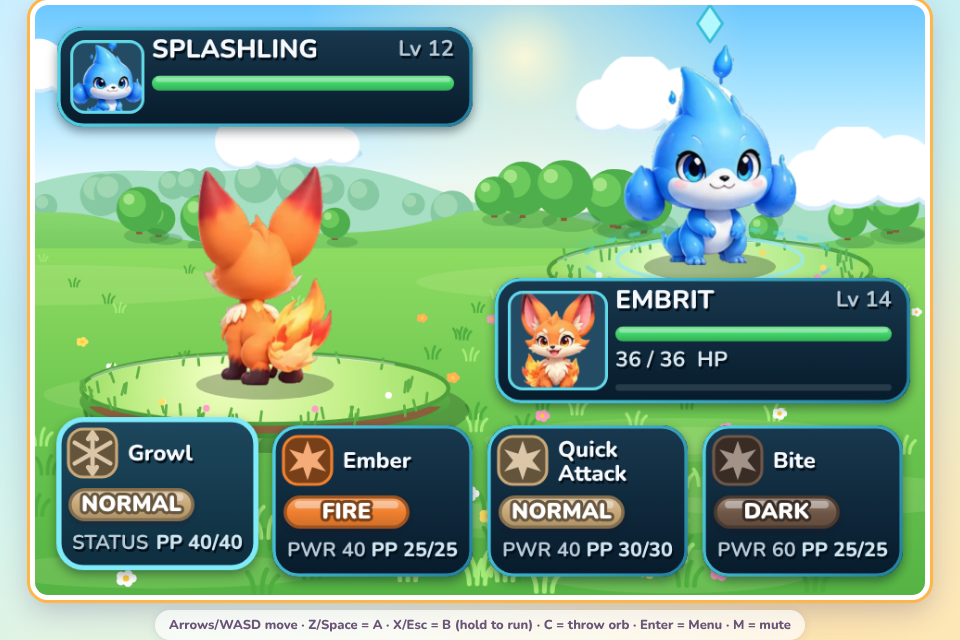
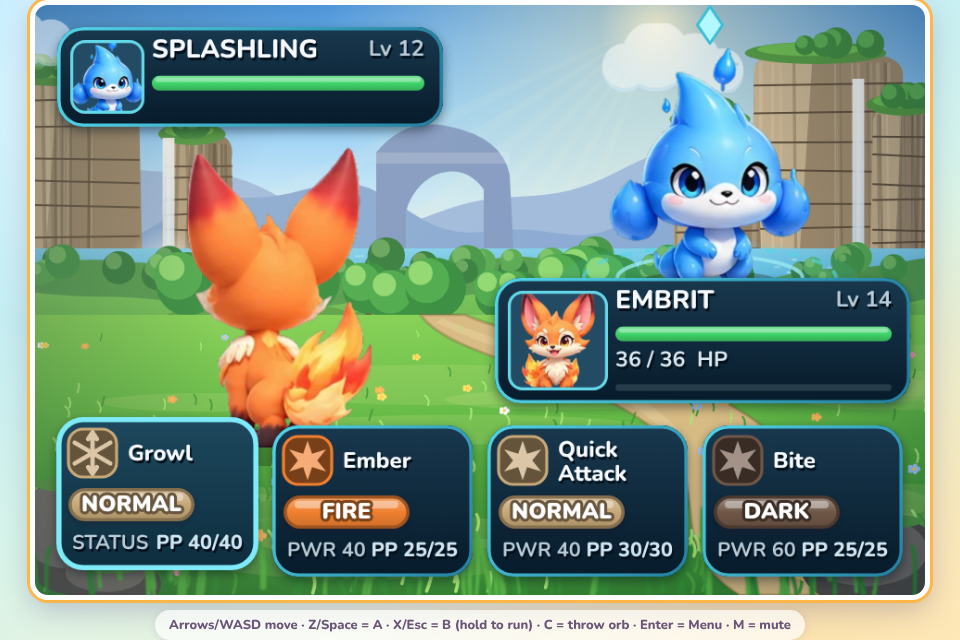
Cinematic battle arena: painted-in-code landscape, larger creatures, no cartoon platforms (v3.27.0)
Claude-Session: https://claude.ai/code/session_016QFoW42RyRroEVoWSSq6Ek

diff --git a/js/battle.js b/js/battle.js
@@ -16,7 +16,7 @@ const msg = (t, auto) => G.say(t, { auto: auto === undefined ? 36 : auto, style:
 const mark = (id, k) => { G.state.dex[id] = Math.max(G.state.dex[id] || 0, k); }; // 1 seen, 2 caught
 const expRatio = c => (c.exp - G.expFor(c.lvl)) / (G.expFor(c.lvl + 1) - G.expFor(c.lvl));
 const speed = f => f.c.stats.spe * G.stageMult(f.stages.spe) * (f.c.status === 'par' ? .5 : 1);
-const center = f => f === b.me ? [62, 78] : [182, 46];
+const center = f => f === b.me ? [61, 74] : [182, 42];
 
 // ---- Drawing --------------------------------------------------------------
 // Backdrops, platforms, orb and particles are pre-rendered (G.kit.cache); per frame we blit them and
@@ -26,36 +26,55 @@ function ell(ctx, x, y, rx, ry, col) { ctx.fillStyle = col; ctx.beginPath(); ctx
 function blob(x, cx, cy, r, col) { x.fillStyle = col; x.beginPath(); x.arc(cx, cy, r, 0, 7); x.fill(); }
 const bgArt = {
   grass: () => K.cache('bbg-grass', 240, 160, x => {
-    const R = G.mulberry(7);
-    x.fillStyle = K.lin(x, 0, 0, 0, 70, ['#6cc8ff', '#a8e4ff', '#e6f9ff', '#fff4d6']); x.fillRect(0, 0, 240, 72);
-    const sun = x.createRadialGradient(132, 14, 0, 132, 14, 60); sun.addColorStop(0, 'rgba(255,250,215,.95)'); sun.addColorStop(.25, 'rgba(255,245,200,.45)'); sun.addColorStop(1, 'rgba(255,245,200,0)');
-    x.fillStyle = sun; x.fillRect(0, 0, 240, 80);
-    // far hills
-    x.fillStyle = '#a6dfc3'; x.beginPath(); x.moveTo(0, 62);
-    for (let i = 0; i <= 240; i += 4) x.lineTo(i, 50 - Math.sin(i / 34) * 7 - Math.sin(i / 13 + 1) * 2);
-    x.lineTo(240, 70); x.lineTo(0, 70); x.fill();
-    // far trees on the ridge
-    for (let i = 0; i < 26; i++) { const tx = R() * 240, ty = 52 - Math.sin(tx / 34) * 7 + 3, r = 3 + R() * 3; blob(x, tx, ty, r, '#86c9a2'); blob(x, tx - r * .3, ty - r * .3, r * .55, '#9fd8b3'); }
-    // near hills
-    x.fillStyle = K.lin(x, 0, 52, 0, 72, ['#8fdc74', '#6fc65a']); x.beginPath(); x.moveTo(0, 70);
-    for (let i = 0; i <= 240; i += 4) x.lineTo(i, 60 - Math.sin(i / 22 + 2) * 4 - Math.sin(i / 9) * 1.2);
-    x.lineTo(240, 74); x.lineTo(0, 74); x.fill();
-    for (let i = 0; i < 14; i++) { // round bushy trees
-      const tx = R() * 240, ty = 61 - Math.sin(tx / 22 + 2) * 4, r = 4 + R() * 4;
-      x.fillStyle = 'rgba(40,110,50,.25)'; x.beginPath(); x.ellipse(tx + 2, ty + 1, r, r * .35, 0, 0, 7); x.fill();
-      x.fillStyle = '#8a5a3a'; x.fillRect(tx - .8, ty - r * .5, 1.6, r * .6);
-      blob(x, tx, ty - r, r, '#4fae4c'); blob(x, tx - r * .3, ty - r * 1.25, r * .6, '#6cc95c'); blob(x, tx - r * .45, ty - r * 1.45, r * .25, '#a3e486');
-    }
-    // meadow ground
-    x.fillStyle = K.lin(x, 0, 66, 0, 160, ['#8fdc62', '#6cc650', '#55b444']); x.fillRect(0, 66, 240, 94);
-    for (let i = 0; i < 10; i++) { x.fillStyle = 'rgba(255,255,200,.12)'; x.beginPath(); x.ellipse(R() * 240, 74 + R() * 80, 30 + R() * 30, 3 + R() * 3, 0, 0, 7); x.fill(); }
-    for (let i = 0; i < 140; i++) { // grass tufts
-      const gx = R() * 240, gy = 68 + Math.pow(R(), .8) * 92, s = .6 + (gy - 66) / 60;
-      x.strokeStyle = R() < .5 ? '#4fae3f' : '#a6ec78'; x.lineWidth = .6 * s; x.beginPath();
-      x.moveTo(gx - s, gy); x.quadraticCurveTo(gx - s, gy - s * 1.5, gx - s * 1.8, gy - s * 2.6); x.moveTo(gx, gy); x.quadraticCurveTo(gx, gy - s * 2, gx + s * .6, gy - s * 3); x.moveTo(gx + s, gy); x.quadraticCurveTo(gx + s, gy - s * 1.4, gx + s * 2, gy - s * 2.2); x.stroke();
-    }
-    const FL = ['#ffffff', '#ffe066', '#ff9ec7', '#ffb35c'];
-    for (let i = 0; i < 46; i++) { const fx = R() * 240, fy = 70 + R() * 88, r = .7 + (fy - 66) / 90, c = FL[i % 4]; for (let k = 0; k < 5; k++) blob(x, fx + Math.cos(k * 1.26) * r, fy + Math.sin(k * 1.26) * r * .7, r * .7, c); blob(x, fx, fy, r * .5, '#ffcf3a'); }
+    const R = G.mulberry(21), TAU = Math.PI * 2;
+    const poly = (pts, fill) => { x.beginPath(); pts.forEach(([a, b], i) => i ? x.lineTo(a, b) : x.moveTo(a, b)); x.closePath(); x.fillStyle = fill; x.fill(); };
+    const ridge = (y0, amp, f, ph, fill, bottom) => { x.beginPath(); x.moveTo(0, bottom); for (let i = 0; i <= 240; i += 3) x.lineTo(i, y0 - Math.sin(i / f + ph) * amp - Math.sin(i / (f * .37) + ph * 2) * amp * .3); x.lineTo(240, bottom); x.closePath(); x.fillStyle = fill; x.fill(); };
+    // sky, sun, soft rays
+    x.fillStyle = K.lin(x, 0, 0, 0, 78, ['#3f96ee', '#7cc4ff', '#c4e8ff', '#fff2d2']); x.fillRect(0, 0, 240, 80);
+    const sun = x.createRadialGradient(168, 6, 0, 168, 6, 90); sun.addColorStop(0, 'rgba(255,248,214,.95)'); sun.addColorStop(.18, 'rgba(255,240,190,.5)'); sun.addColorStop(1, 'rgba(255,240,190,0)'); x.fillStyle = sun; x.fillRect(0, 0, 240, 90);
+    for (let i = 0; i < 7; i++) { const a0 = 1.9 + i * .13; x.fillStyle = 'rgba(255,250,220,.07)'; x.beginPath(); x.moveTo(168, 4); x.lineTo(168 + Math.cos(a0) * 200, 4 + Math.sin(a0) * 200); x.lineTo(168 + Math.cos(a0 + .05) * 200, 4 + Math.sin(a0 + .05) * 200); x.fill(); }
+    // far blue mountains with haze
+    ridge(50, 9, 26, 1, '#9db9e0', 80); ridge(56, 7, 19, 4, '#86a8d6', 80);
+    // natural arch in the distance
+    x.fillStyle = '#7f98c4'; x.beginPath(); x.moveTo(92, 66); x.lineTo(92, 40); x.quadraticCurveTo(100, 30, 112, 33); x.quadraticCurveTo(126, 36, 128, 46); x.lineTo(129, 66); x.lineTo(121, 66); x.lineTo(121, 50); x.quadraticCurveTo(116, 43, 108, 46); x.quadraticCurveTo(102, 49, 100, 56); x.lineTo(100, 66); x.closePath(); x.fill();
+    x.fillStyle = 'rgba(255,255,255,.18)'; x.fillRect(92, 40, 36, 3);
+    // tall cliff towers left and right, with moss tops, trees and a waterfall
+    const tower = (cx, w, top, base, col, lit, dark) => {
+      x.fillStyle = col; x.beginPath(); x.moveTo(cx - w / 2, base); x.lineTo(cx - w / 2 + 1, top + 5); x.quadraticCurveTo(cx - w / 2 + 3, top, cx - w / 5, top - 1); x.lineTo(cx + w / 4, top + 1); x.quadraticCurveTo(cx + w / 2, top + 2, cx + w / 2 - 1, top + 8); x.lineTo(cx + w / 2, base); x.closePath(); x.fill();
+      x.fillStyle = lit; x.beginPath(); x.moveTo(cx - w / 2, base); x.lineTo(cx - w / 2 + 1, top + 5); x.quadraticCurveTo(cx - w / 2 + 3, top, cx - w / 5, top - 1); x.lineTo(cx - w / 10, top); x.lineTo(cx - w / 5, base); x.closePath(); x.fill();
+      for (let k = 0; k < 14; k++) { const vx = cx - w / 2 + 1 + R() * (w - 2); x.strokeStyle = R() < .5 ? 'rgba(40,30,20,.22)' : 'rgba(255,240,210,.2)'; x.lineWidth = .4 + R() * .8; x.beginPath(); x.moveTo(vx, top + 4); x.lineTo(vx + (R() - .5) * 2, base); x.stroke(); }
+      x.strokeStyle = dark; x.lineWidth = .5; for (let k = 0; k < 7; k++) { const yy = top + 8 + k * (base - top - 8) / 7 + R() * 3; x.beginPath(); x.moveTo(cx - w / 2 + 1, yy); x.lineTo(cx + w / 2 - 1, yy + R() * 2 - 1); x.stroke(); }
+      x.fillStyle = '#4f9a3f'; x.beginPath(); x.ellipse(cx - w / 12, top + 1, w / 2.2, 3, 0, 0, TAU); x.fill(); x.fillStyle = '#6cc04e'; x.beginPath(); x.ellipse(cx - w / 8, top, w / 3, 1.8, 0, 0, TAU); x.fill();
+      for (let k = 0; k < 4; k++) { const tx = cx - w / 2.6 + R() * w * .75, r = 2.5 + R() * 2; x.fillStyle = '#3a8a3c'; x.beginPath(); x.arc(tx, top - r * .4, r, 0, TAU); x.fill(); x.fillStyle = '#58b050'; x.beginPath(); x.arc(tx - r * .3, top - r * .7, r * .6, 0, TAU); x.fill(); }
+    };
+    tower(10, 38, 18, 74, '#9a8468', '#c4ad8a', '#5c4a38'); tower(44, 20, 34, 74, '#8c7a62', '#b6a182', '#5c4a38');
+    tower(214, 42, 12, 76, '#a08a6c', '#cbb592', '#5c4a38'); tower(184, 24, 30, 76, '#907c62', '#baa684', '#5c4a38'); tower(236, 22, 26, 76, '#98836a', '#c2ac8a', '#5c4a38');
+    // waterfall with mist
+    for (const [wx, wt, wb] of [[36, 36, 72], [222, 20, 76]]) { x.fillStyle = K.lin(x, 0, wt, 0, wb, ['rgba(255,255,255,.95)', 'rgba(210,235,255,.8)']); x.fillRect(wx - 1.6, wt, 3.2, wb - wt); x.fillStyle = 'rgba(255,255,255,.35)'; x.fillRect(wx - .5, wt, 1, wb - wt); const m = x.createRadialGradient(wx, wb, 0, wx, wb, 12); m.addColorStop(0, 'rgba(255,255,255,.8)'); m.addColorStop(1, 'rgba(255,255,255,0)'); x.fillStyle = m; x.fillRect(wx - 12, wb - 12, 24, 20); }
+    // lake band with sparkles
+    x.fillStyle = K.lin(x, 0, 66, 0, 78, ['#7fd0f0', '#4fb0e0']); x.fillRect(0, 66, 240, 12);
+    for (let i = 0; i < 40; i++) { x.fillStyle = `rgba(255,255,255,${.25 + R() * .4})`; x.fillRect(R() * 240, 67 + R() * 10, 1 + R() * 3, .5); }
+    // far tree line and rolling hills
+    ridge(72, 3, 17, 0, '#4f9a4c', 84);
+    for (let i = 0; i < 46; i++) { const tx = R() * 240, ty = 70 + R() * 6, r = 2 + R() * 3.2; x.fillStyle = ['#2f7a3c', '#3f9446', '#52a850'][i % 3]; x.beginPath(); x.arc(tx, ty - r * .5, r, 0, TAU); x.fill(); x.fillStyle = 'rgba(190,240,150,.35)'; x.beginPath(); x.arc(tx - r * .3, ty - r * .9, r * .5, 0, TAU); x.fill(); }
+    ridge(80, 3, 23, 2, K.lin(x, 0, 74, 0, 90, ['#79c85a', '#5cb04a']), 96);
+    // bigger mid trees
+    for (let i = 0; i < 12; i++) { const tx = 6 + R() * 228, ty = 82 + R() * 6, r = 5 + R() * 4; x.fillStyle = 'rgba(30,80,30,.25)'; x.beginPath(); x.ellipse(tx + 2, ty + 1, r, r * .3, 0, 0, TAU); x.fill(); x.fillStyle = '#6a4a2c'; x.fillRect(tx - .8, ty - r * .6, 1.6, r * .7); for (const [dx, dy, rr, c] of [[0, -r, r, '#2f8a3c'], [-r * .3, -r * 1.25, r * .75, '#47a84a'], [-r * .5, -r * 1.5, r * .4, '#8bd870']]) { x.fillStyle = c; x.beginPath(); x.arc(tx + dx, ty + dy, rr, 0, TAU); x.fill(); } }
+    // meadow, patches of light, a winding trail
+    x.fillStyle = K.lin(x, 0, 84, 0, 160, ['#7fd052', '#5fba42', '#3f9c34', '#2c7e2c']); x.fillRect(0, 84, 240, 76);
+    for (let i = 0; i < 16; i++) { x.fillStyle = 'rgba(255,250,170,.13)'; x.beginPath(); x.ellipse(R() * 240, 90 + R() * 62, 24 + R() * 34, 2.5 + R() * 4, 0, 0, TAU); x.fill(); }
+    x.beginPath(); x.moveTo(104, 84); x.bezierCurveTo(112, 96, 150, 100, 168, 116); x.bezierCurveTo(184, 130, 168, 146, 190, 160); x.lineTo(226, 160); x.bezierCurveTo(200, 140, 214, 124, 190, 110); x.bezierCurveTo(166, 94, 128, 90, 116, 84); x.closePath(); x.fillStyle = '#d6b982'; x.fill();
+    x.strokeStyle = 'rgba(120,86,50,.35)'; x.lineWidth = .8; x.stroke(); x.fillStyle = 'rgba(255,240,200,.22)'; x.beginPath(); x.moveTo(110, 85); x.bezierCurveTo(130, 94, 160, 98, 176, 118); x.lineTo(172, 118); x.bezierCurveTo(156, 100, 128, 96, 108, 86); x.fill();
+    // grass tufts, flowers, rocks
+    for (let i = 0; i < 260; i++) { const gx = R() * 240, gy = 86 + Math.pow(R(), .75) * 74, s2 = .5 + (gy - 84) / 55; x.strokeStyle = R() < .5 ? '#3f9a36' : '#a4e873'; x.lineWidth = .5 * s2; x.beginPath(); x.moveTo(gx, gy); x.quadraticCurveTo(gx + s2 * .6, gy - s2 * 1.6, gx + s2 * (R() - .5) * 2, gy - s2 * 2.8); x.stroke(); }
+    const FL = ['#ffffff', '#ffe066', '#ff9ec7', '#9fc8ff', '#ffb35c'];
+    for (let i = 0; i < 70; i++) { const fx = R() * 240, fy = 90 + R() * 66, r = .6 + (fy - 84) / 80; x.fillStyle = FL[i % 5]; for (let k = 0; k < 5; k++) { x.beginPath(); x.arc(fx + Math.cos(k * 1.26) * r, fy + Math.sin(k * 1.26) * r * .7, r * .6, 0, TAU); x.fill(); } x.fillStyle = '#ffd23a'; x.beginPath(); x.arc(fx, fy, r * .4, 0, TAU); x.fill(); }
+    for (const [rx, ry, rw, rh] of [[-6, 128, 34, 32], [206, 138, 40, 26], [8, 150, 26, 14]]) { x.fillStyle = '#4d4a48'; x.beginPath(); x.ellipse(rx + rw / 2, ry + rh / 2, rw / 2, rh / 2, 0, 0, TAU); x.fill(); x.fillStyle = '#6e6a66'; x.beginPath(); x.ellipse(rx + rw / 2 - 2, ry + rh / 2 - 3, rw / 2.4, rh / 2.7, 0, 0, TAU); x.fill(); x.fillStyle = '#4f9a3f'; x.beginPath(); x.ellipse(rx + rw / 2, ry + 2, rw / 3, 2.2, 0, 0, TAU); x.fill(); }
+    // soft blurred foreground grass (depth of field)
+    x.save(); x.filter = 'blur(1.1px)'; for (let i = 0; i < 70; i++) { const gx = R() * 240, gy = 150 + R() * 14, h = 7 + R() * 9; x.strokeStyle = R() < .5 ? '#2c8a30' : '#4fb040'; x.lineWidth = 1 + R() * .8; x.beginPath(); x.moveTo(gx, gy + 4); x.quadraticCurveTo(gx + (R() - .5) * 4, gy - h * .5, gx + (R() - .5) * 8, gy - h); x.stroke(); } x.restore();
+    // warm light and vignette
+    x.fillStyle = K.lin(x, 0, 0, 240, 160, ['rgba(255,236,170,.14)', 'rgba(255,236,170,0)']); x.fillRect(0, 0, 240, 160);
+    const vg = x.createRadialGradient(120, 80, 70, 120, 80, 160); vg.addColorStop(0, 'rgba(10,30,50,0)'); vg.addColorStop(1, 'rgba(10,30,50,.34)'); x.fillStyle = vg; x.fillRect(0, 0, 240, 160);
   }, { pad: 0, qmax: 6 }),
   cave: () => K.cache('bbg-cave', 240, 160, x => {
     const R = G.mulberry(11);
@@ -119,19 +138,20 @@ const orbArt = () => K.cache('borb', 14, 14, x => {
   blob(x, 9.6, 3.4, .55, 'rgba(255,255,255,.8)');
 }, { pad: 2 });
 
-function drawFighter(ctx, f, back, bx, by) {
+function drawFighter(ctx, f, back, bx, by, base) {
+  base = base || 64; const u = base / 64;
   if (f.hidden || f.alpha <= 0) return;
   const a = act(f); let img = a ? a.frame() : null;
   if (!img) img = G.creatureSprite(f.c.id, back);
   if (f.tint) img = a ? G.c3d.tint(img, f.tint) : G.tint(img, f.tint);
   const t = G.frameNo + (back ? 40 : 0), idle = f.scale === 1 && !f.tint && !a;   // 3D actors breathe on their own
   const bob = idle ? Math.sin(t / 18) : 0, sq = idle ? Math.sin(t / 9) * .018 : 0;
-  const size = 64 * f.scale, sw = size * (1 + sq), sh = size * (1 - sq);
+  const size = base * f.scale, sw = size * (1 + sq), sh = size * (1 - sq);
   // contact shadow on the platform
-  const fx = bx + 32 + f.ox, fy = by + 61;
-  ctx.globalAlpha = f.alpha * .3 * Math.max(0, 1 - Math.abs(f.oy) / 40); ell(ctx, fx, fy, 18 * f.scale - bob * .6, 4 * f.scale, '#1a2a14'); ctx.globalAlpha = f.alpha;
-  const dx = bx + f.ox + (64 - sw) / 2, dy = by + f.oy + (64 - sh) - Math.max(0, bob) * 1.6;
-  if (f.glow) { ctx.globalCompositeOperation = 'lighter'; K.drawGlow(ctx, '#ffe066', fx, by + 34, 40 + Math.sin(t / 4) * 3, Math.min(1, f.glow / 30) * .8); ctx.globalCompositeOperation = 'source-over'; ctx.globalAlpha = f.alpha; }
+  const fx = bx + base / 2 + f.ox, fy = by + base * .95;
+  ctx.globalAlpha = f.alpha * .3 * Math.max(0, 1 - Math.abs(f.oy) / 40); ell(ctx, fx, fy, (18 * f.scale - bob * .6) * u, 4 * f.scale * u, '#10240e'); ctx.globalAlpha = f.alpha;
+  const dx = bx + f.ox + (base - sw) / 2, dy = by + f.oy + (base - sh) - Math.max(0, bob) * 1.6;
+  if (f.glow) { ctx.globalCompositeOperation = 'lighter'; K.drawGlow(ctx, '#ffe066', fx, by + base * .53, (40 + Math.sin(t / 4) * 3) * u, Math.min(1, f.glow / 30) * .8); ctx.globalCompositeOperation = 'source-over'; ctx.globalAlpha = f.alpha; }
   ctx.drawImage(img, dx, dy, sw, sh);
   if (f.flash > 0 && G.flashOK()) { ctx.globalAlpha = f.alpha * Math.min(1, f.flash / 4); ctx.drawImage(a ? G.c3d.tint(a.canvas, '#ffffff') : G.tint(G.creatureSprite(f.c.id, back), '#ffffff'), dx, dy, sw, sh); }
   ctx.globalAlpha = 1;
@@ -208,10 +228,9 @@ function drawBackdrop(ctx, cave) {
     for (let i = 0; i < 12; i++) { const px = (i * 53 + t * .15 * (1 + i % 3)) % 250 - 5, py = 20 + (i * 37) % 60 + Math.sin(t / 50 + i) * 6; K.drawGlow(ctx, i % 2 ? '#7ef0ff' : '#ff8ee0', px, py, 2.5, .5 + .4 * Math.sin(t / 15 + i)); }
     ctx.globalCompositeOperation = 'source-over';
   } else {
-    [[0, 8, .05], [1, 26, .035], [2, 15, .07], [3, 34, .025]].forEach(([k, cy, sp], i) => { const e = cloudArt(k), w = 40 + i * 4; const cx = ((i * 83 + t * sp) % (240 + w + 20)) - w - 10; ctx.drawImage(e.c, cx - e.pad, cy - e.pad, w + e.pad * 2, w * .4 + e.pad * 2); });
+    ctx.globalAlpha = .5; [[0, 3, .05], [1, 12, .035], [2, 6, .07]].forEach(([k, cy, sp], i) => { const e = cloudArt(k), w = 34 + i * 4; const cx = ((i * 83 + t * sp) % (240 + w + 20)) - w - 10; ctx.drawImage(e.c, cx - e.pad, cy - e.pad, w + e.pad * 2, w * .4 + e.pad * 2); }); ctx.globalAlpha = 1;
   }
-  K.blit(ctx, platArt(cave, 44, 9), 182 - 48, 72 - 12);
-  K.blit(ctx, platArt(cave, 50, 10), 62 - 54, 104 - 13);
+  if (cave) { K.blit(ctx, platArt(cave, 44, 9), 182 - 48, 72 - 12); K.blit(ctx, platArt(cave, 50, 10), 62 - 54, 104 - 13); }
 }
 function draw(ctx) {
   const cave = b.bg === 'cave';
@@ -219,10 +238,10 @@ function draw(ctx) {
   ctx.save();
   if (b.shake > 0 && G.shakeOK()) { const s = b.shake * .5; ctx.translate(Math.sin(b.shake * 2.1) * s, Math.cos(b.shake * 1.7) * s * .5); }
   drawBackdrop(ctx, cave);
-  if (b.target && !b.foe.hidden) G.battleUI.targetRing(ctx, 182, 69, G.frameNo);
-  drawFighter(ctx, b.foe, false, 150, 10);
-  if (b.target && !b.foe.hidden) G.battleUI.targetMarker(ctx, 182, 6, G.frameNo);
-  drawFighter(ctx, b.me, true, 30, 42);
+  if (b.target && !b.foe.hidden) G.battleUI.targetRing(ctx, 182, 74, G.frameNo);
+  drawFighter(ctx, b.foe, false, 146, 8, 72);
+  if (b.target && !b.foe.hidden) G.battleUI.targetMarker(ctx, 182, 4, G.frameNo);
+  drawFighter(ctx, b.me, true, 22, 36, 88);
   for (const t of [b.tFoe, b.tMe]) if (t) {
     ctx.globalAlpha = (t.alpha === undefined ? 1 : t.alpha) * .3; ell(ctx, t.x + t.ox + 24, t.y + 58, 16, 3.5, '#1a2a14');
     ctx.globalAlpha = t.alpha === undefined ? 1 : t.alpha; ctx.drawImage(t.img, t.x + t.ox, t.y, 48, 60); ctx.globalAlpha = 1;
@@ -237,7 +256,7 @@ function draw(ctx) {
   // info boxes slide in when first shown
   b.fT = b.showFoe ? (b.fT || 0) + 1 : 0; b.mT = b.showMe ? (b.mT || 0) + 1 : 0;
   const ease = n => n >= 14 ? 0 : Math.pow(1 - n / 14, 3);
-  if (b.showFoe) infoBox(ctx, b.foe, 6 - ease(b.fT) * 130, 6, 112, false);
+  if (b.showFoe) infoBox(ctx, b.foe, 6 - ease(b.fT) * 130, 6, 104, false);
   if (b.showMe) infoBox(ctx, b.me, 124 + ease(b.mT) * 130, 74, 112, true);
 }
 function drawFx(ctx, fx) {

diff --git a/js/settings.js b/js/settings.js
@@ -85,5 +85,5 @@ G.applySettings = function (changed) {
   if (!changed || changed === 'system.graphics') { if (G.refit) G.refit(); }
   if (!changed || changed.startsWith('hud.')) { const h = document.getElementById('help'); if (h) h.style.visibility = G.hudOn('tutorialHints') ? '' : 'hidden'; }
 };
-G.VERSION = '3.26.0';
+G.VERSION = '3.27.0';
 })();

diff --git a/docs/BATTLE_UI.md b/docs/BATTLE_UI.md
@@ -35,12 +35,18 @@ and its APK snapshots were used only as a reference). Creature art, battle rules
 Unchanged keys and controller buttons. The command bar and the cards are one row, so Left and Right move and A confirms, B backs
 out; every card and every command is also a tap target. The old 2x2 command layout is gone (RUN is now three steps right).
 
+## Arena
+The grass arena is now a cinematic landscape drawn in code (cached once): sun and light rays, distant mountains and a natural arch,
+sandstone cliff towers with moss, trees and waterfalls on both sides, a lake, rolling tree lines, a winding dirt trail, flowers,
+rocks and soft blurred foreground grass, with a warm light wash and vignette. There are no cartoon platforms any more, only soft
+contact shadows. Your creature is drawn larger (88 px) in the foreground, the foe at 72 px. The cave arena keeps its old look.
+
 ## Not done
-* The arena itself is still the procedural cartoon backdrop. The kit's reference image shows a painted landscape; that needs
-  authored background art (a separate image per arena), which the kit does not include.
-* The three concept boards (cinematic, tactical, adventure) were combined: the dark panels and cards come from the tactical board,
-  the clear arena and bottom command row from the cinematic board. The adventure board's round ability wheel, combo meter and
-  dodge/focus buttons are new mechanics and were not built.
-* Foe status panel shows percentage-free HP only (no numbers), as before.
+* The arena is drawn by code, not painted art, so it is simpler than the kit's reference picture. Real painted backgrounds would
+  need authored images (one per arena), which the kit does not include.
+* The three concept boards were combined: the dark panels and cards come from the tactical board, the clear arena and bottom
+  command row from the cinematic board. The adventure board's round ability wheel, combo meter and dodge/focus buttons are new
+  mechanics and were not built.
+* The foe's status panel shows no HP numbers, as before.
 
 Screenshots from the running game: `docs/img/battle-command.png`, `battle-abilities.png`, `battle-damage.png`, `battle-lowhp.png`.

diff --git a/docs/STORY_AND_PROGRESSION.md b/docs/STORY_AND_PROGRESSION.md
@@ -1,6 +1,6 @@
 # WILDCARD: Story, Quests and Progression Guide
 
-Build 3.26.x. This guide is checked against the game by `tests/e2e-guide.js` (see the appendix). Everything in this document was read from the game's own code and data (the quest definitions, the gate rules, the
+Build 3.27.x. This guide is checked against the game by `tests/e2e-guide.js` (see the appendix). Everything in this document was read from the game's own code and data (the quest definitions, the gate rules, the
 arena and map data), not from the old design drafts. Where the game differs from `docs/STORY_DESIGN.md`, this document is right.
 
 Contents
